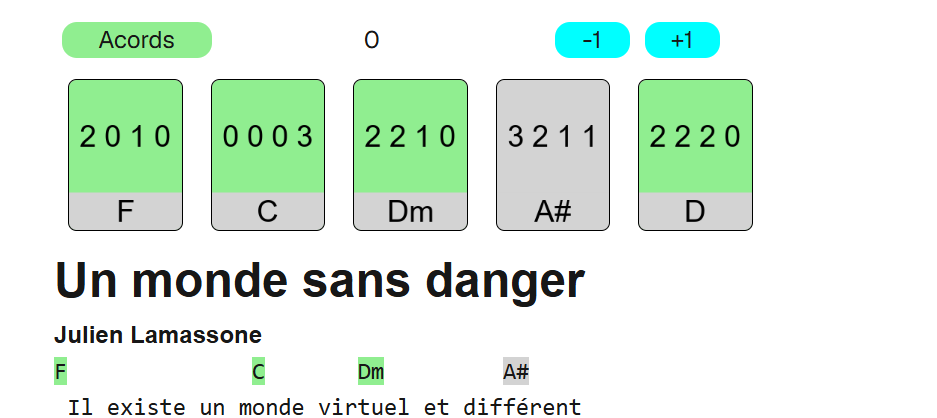
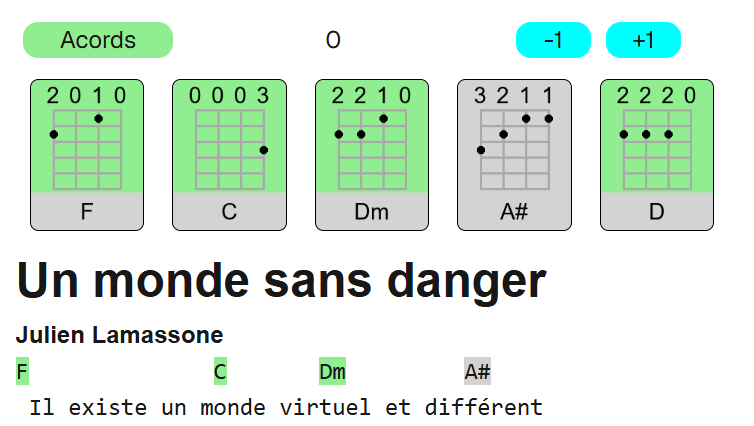
Diagrames amb cordes i trastes, ?, scripts python útils

diff --git a/app/globals.css b/app/globals.css
@@ -83,9 +83,14 @@ h2 {
 }
 .fitxaAcord.desconegut{
   display: flex;
-  align-items: flex-end;
-  justify-content: center;
-  background-color: lightgray;
+  flex-direction: column;
+  align-items: center;
+  justify-content: flex-end;
+  background-color: lightgray;/**/
+}
+
+.fitxaAcord.desconegut>big{
+  font-size: 3em;
 }
 
 /* Visual Botons (Sense bootstrap, a veure què puc fer) */

diff --git a/components/dibuixAc.tsx b/components/dibuixAc.tsx
@@ -25,6 +25,7 @@ export function FitxaAcord(props:FitxaAcordProps) {
     
     return (
         <div className="fitxaAcord desconegut">
+            <big>?</big>
             <span>{acord}</span>
         </div>);    
 }

diff --git a/scripts/diagramesAcordsUk.py b/scripts/diagramesAcordsUk.py
@@ -1,8 +1,8 @@
 from PIL import Image, ImageDraw, ImageFont
-import yaml
-import os
+from utils import *
+
 #Funcions i variables auxiliars que si no empro ara, les empraré
-publicPath = os.path.dirname(__file__)+"/../public/"
+publicPath = pP()
 def rect(dib, x1, y1, x2, y2, col):
     dib.polygon([(x1, y1), (x2, y1), (x2, y2), (x1, y2)], col)
 def cercle(dib, p, r, c): 
@@ -11,8 +11,7 @@ def cercle(dib, p, r, c):
 
 # Lectura de l'arxiu de dades: 
 print(publicPath)
-with open(publicPath+"test/acords.yml", 'r') as arxiu: 
-    acords = yaml.safe_load(arxiu)["coneguts"]
+acords = llegeixAcords()["coneguts"]
 
 # Iterar entre els acords i generar les imatges
 for k in acords: 
@@ -21,8 +20,24 @@ for k in acords:
     dib = ImageDraw.Draw(img)
 
     #Nom de l'acord
-    font = ImageFont.truetype("arial.ttf", 40)
-    dib.text((75, 75), ' '.join(str(x) for x in v["ukelele"]), font=font, anchor="mm", fill="black")
+    font = ImageFont.truetype("arial.ttf", 30)
+
+    #Trastes 
+    for j in range(6): 
+        rect(dib, 29, 39+21*j, 121, 41+21*j, 'darkgray')
+    for i in range(4): 
+        I = i+1
+        t:int = v["ukelele"][i]
+        st = str(t)
+        #Cordes
+        rect(dib, I*30-1, 40, I*30+1, 145, 'darkgray')
+        if t > 0: 
+            cercle(dib, (I*30, t*21+30), 5, 'black')
+        elif t == -1: 
+            st = 'X'
+        dib.text((I*30, 20), st, font=font, anchor="mm", fill="black")
+
+    #dib.text((75, 75), ' '.join(str(x) for x in v["ukelele"]), font=font, anchor="mm", fill="black")
     rect(dib, 0, 150, 150, 220, 'lightgray')
     dib.text((75, 175), k, font=font, anchor="mm", fill="black")
     kNet = k.replace('#', 'h')

diff --git a/scripts/utils.py b/scripts/utils.py
@@ -1,0 +1,14 @@
+import os
+import yaml
+
+def pP(): 
+    return os.path.dirname(__file__)+"/../public/"
+
+def llegeixAcords(): 
+    with open(pP()+"test/acords.yml", 'r') as arxiu: 
+        acords = yaml.safe_load(arxiu)
+        return acords
+    
+def escriuAcords(cnt): 
+    with open(pP()+"test/acords.yml", "w") as f:
+        f.write(cnt)

diff --git a/scripts/ordenaAcords.py b/scripts/ordenaAcords.py
@@ -1,0 +1,5 @@
+# Script que endreça l'arxiu acords.yml alfabèticament per a que no hagi de pensar gaire. 
+from utils import *
+acords = llegeixAcords()
+acords["coneguts"] = {k: v for k, v in sorted(acords["coneguts"].items(), key=lambda item: item[0])}
+escriuAcords(yaml.safe_dump(acords, default_flow_style=None))
